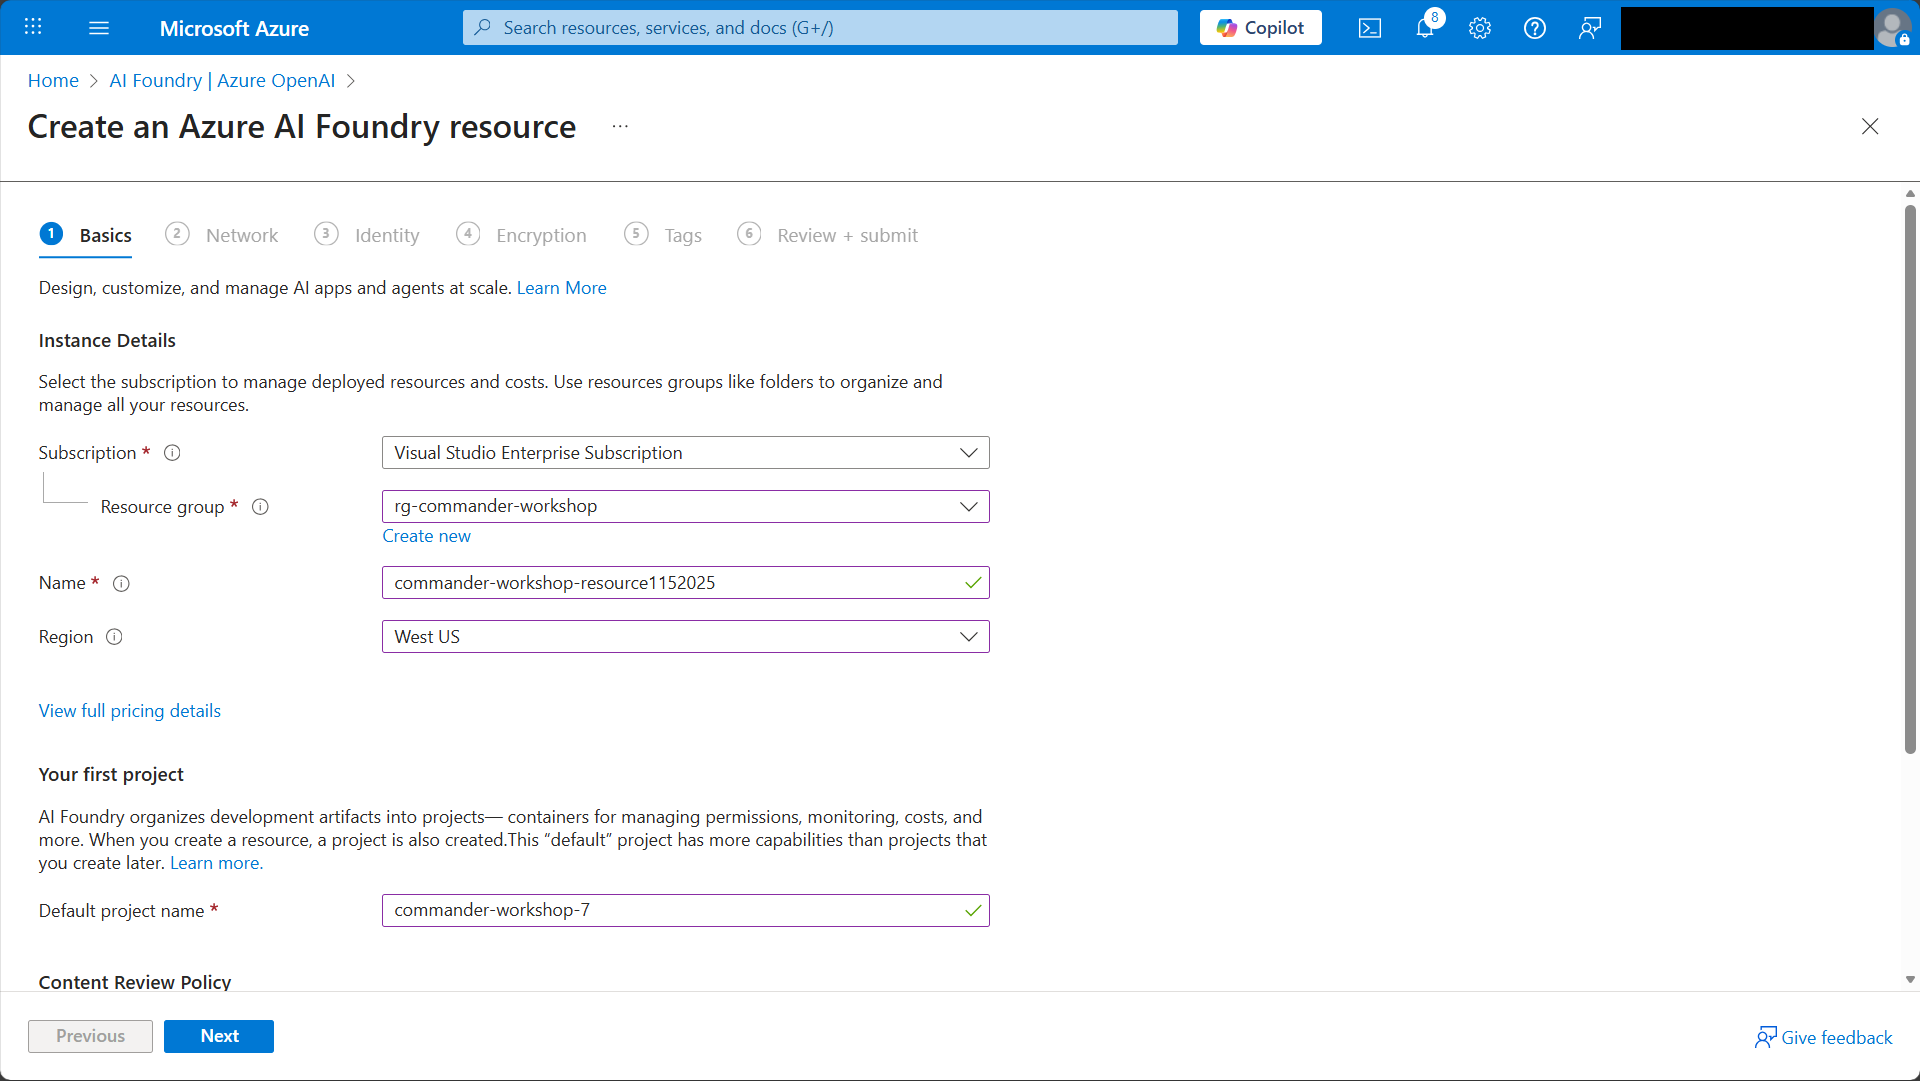
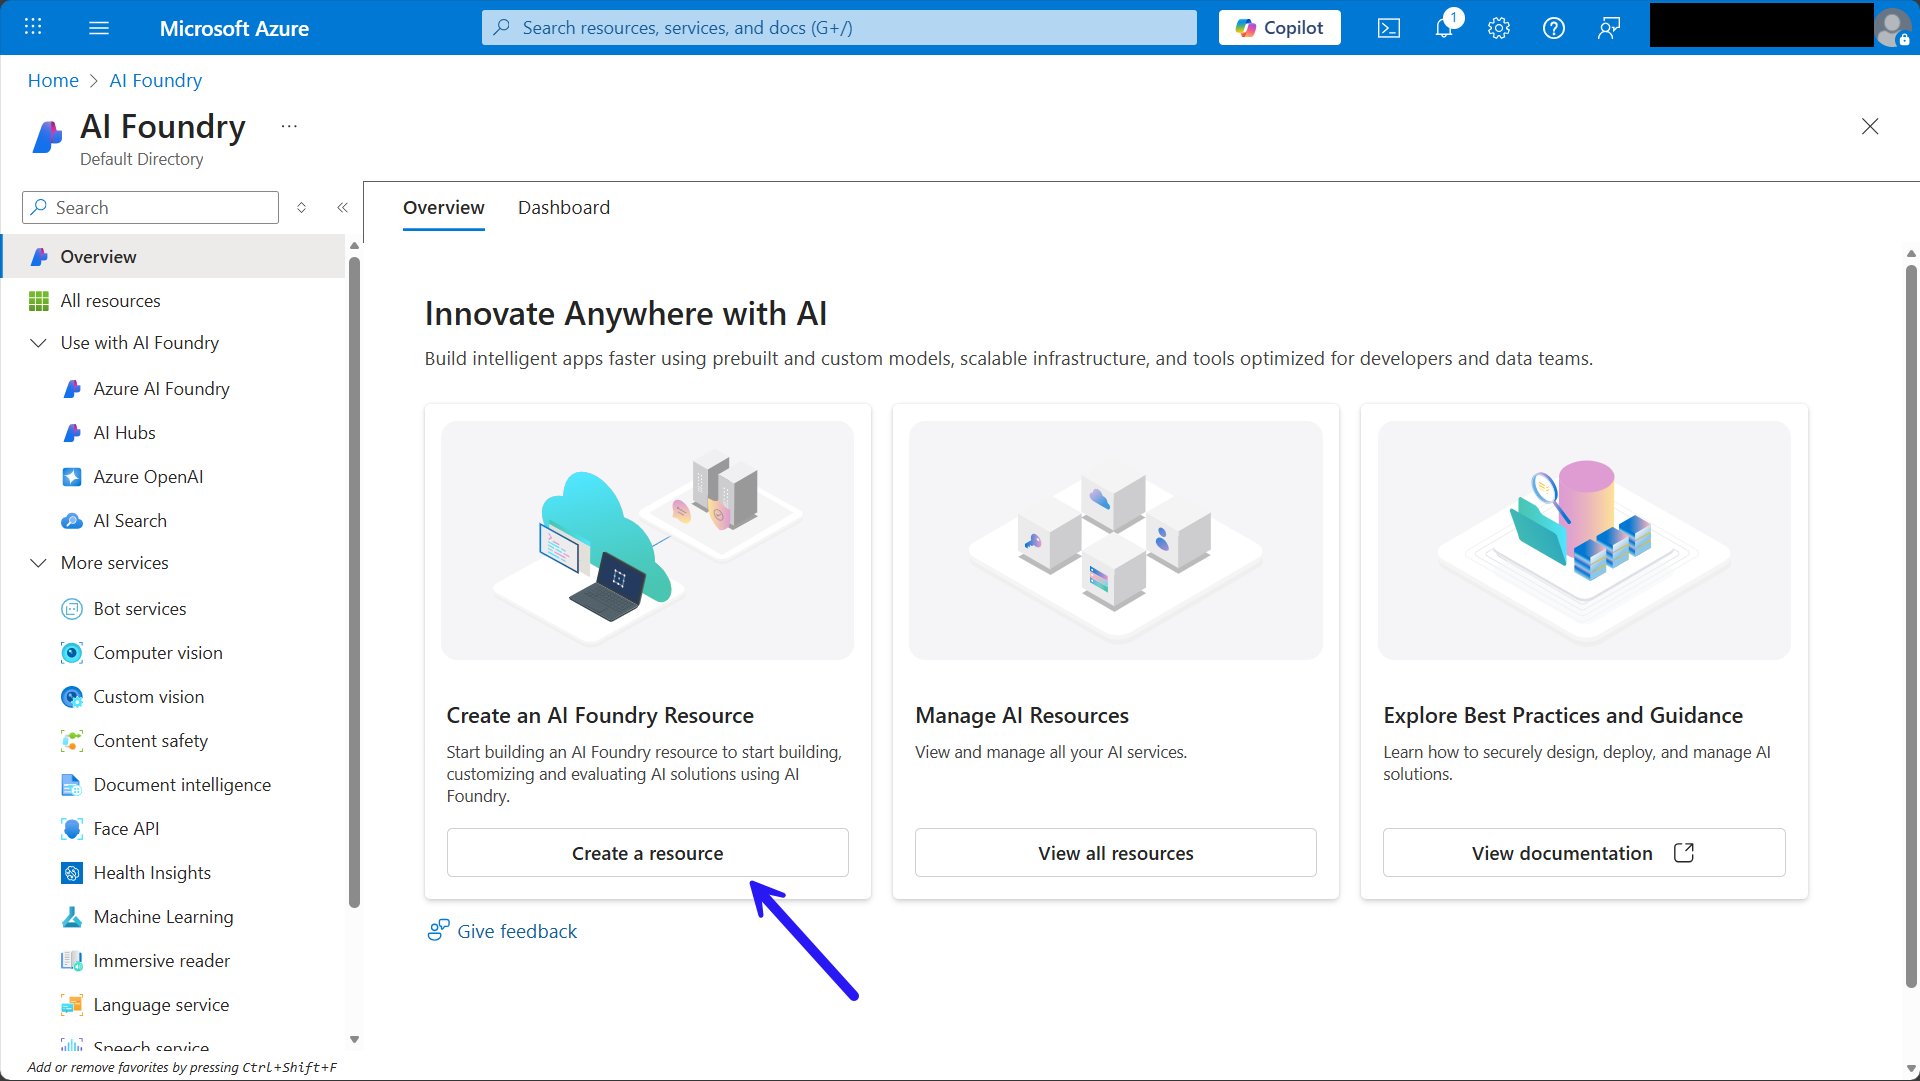
Updates to Lab 7.1

diff --git a/docs/commander/07-extend-with-azure-ai/README.md b/docs/commander/07-extend-with-azure-ai/README.md
@@ -235,7 +235,9 @@ Understanding how these capabilities integrate with your agent helps you design 
     - Optimize model selection and data retrieval strategies.
     - Continuously improve based on user feedback.
 
-## 🧪Lab 7.1: Configure the Azure resources
+## 🧪Lab 7.1: Bring your own data from Azure to your agent
+
+In this lab, you use Azure AI Foundry and Azure AI Search to bring your own data from Azure to enhance the knowledge of a Copilot Studio agent.
 
 ### Prerequisites to complete this mission
 
@@ -245,114 +247,48 @@ Understanding how these capabilities integrate with your agent helps you design 
 
 1. Sample documents from [IT policies](https://download-directory.github.io/?url=https://github.com/RobStand/agent-academy/tree/main/docs/commander/07-extend-with-azure-ai/assets/it-documentation&filename=commander_sampledata)
 
-### 7.1.1 Create a resource group
+### 7.1.1 Create an Azure AI Foundry resource
 
-The first thing to do is to create a resource group that will organize all of the various Azure resources you need for the labs.
-
-1. Navigate to [Azure portal](https://portal.azure.com) and log in
-1. Select **Resource groups**
-1. Select **+ Create**
-1. Configure the resource group:
-
-    - **Subscription**: Choose the Azure subscription you want to use
-    - **Resource group name**: Enter `rg-commander-workshop`
-    - **Region**: Choose the region closest to you
-  
-    ![Create the resource group](assets/7-create-azure-resource-group.png)
-
-1. Select **Review + create**, then **Create**
-1. Wait a little bit for Azure to create the resource group
-1. When it's finished, select **Go to resource** and Azure will load your new resource group
-
-    ![Deployed resource group](assets/7-deployed-resource-group.png)
-
-Now you are ready to create the Azure services you need for the labs.
-
-### 7.1.2 Create an Azure OpenAI service
-
-Next, you need an Azure OpenAI service.
-
-1. In your resource group, select **+ Create**
-1. Search for `Azure OpenAI`
-1. Select **Azure services only**
-1. In the results, look for **Azure OpenAI** and select **Create**, then **Azure OpenAI**
-1. Configure the new Azure OpenAI service:
-
-    - **Subscription**: Choose the Azure subscription you want to use
-    - **Resource group**: Select `rg-commander-workshop`
-    - **Region**: Choose the region you selected for your resource group
-    - **Name**: Enter a unique name for the service
-    - **Pricing tier**: Choose `Standard SO`
-
-    ![Create Azure OpenAI service](assets/7-create-azure-openai-service.png)
-
-1. Select **Next** to navigate through the options
-1. Select **Create**
-
-Azure will deploy your new OpenAI service and you're ready to proceed.
-
-### 7.1.3 Set up Azure AI Foundry
-
-You need an Azure AI Foundry resource and project to manage the models you'll use in the BYOD and BYOM labs.
-
-1. Navigate to your resource group in Azure portal and select **+ Create**
-1. Search for `AI Foundry`
-1. In the results, look for **Azure AI Foundry** and select **Create**, then **Azure AI Foundry**
+1. On the Azure portal home page, select `Azure AI Foundry` under **Azure services** or search for it in the **Search** box
+1. Select **Create a resource**
+    ![Create AI Foundry resource](assets/7-create-ai-foundry-resource.png)
 1. Configure the AI Foundry resource:
 
     - **Subscription**: Choose the Azure subscription you want to use
-    - **Resource group**: Select `rg-commander-workshop`
+    - **Resource group**: Select **Create new** and name it `rg-commander-workshop`
     - **Name**: Enter a unique name for the AI Foundry resource
-    - **Region**: Choose the region you selected for your resource group
+    - **Region**: Choose the region closest to you
     - **Default project name**: Enter `commander-workshop-7`
 
-    ![Create AI Foundry resource](assets/7-create-ai-foundry-resource.png)
+    ![Configure AI Foundry resource](assets/7-foundry-configure-resource.png)
 
-1. Select **Next** to navigate through the options
+1. Select **Next** to proceed through the options
 1. Select **Create**
 
-Your AI Foundry resource and project are ready.
-
-### 7.1.4 Deploy an embedding model
+### 7.1.2 Deploy an embedding model
 
 1. Navigate to [Azure AI Foundry](https://ai.foundry.com)
-1. In the left-hand navigation, select **Management center**
-    ![Select management center](assets/7-foundry-select-management-center.png)
-1. Select **Connected resources**
-1. Select **+ New connection**
-1. Select **Azure OpenAI**
-    ![Create new connection](assets/7-foundry-new-connection.png)
-1. Select **Add connection** for the OpenAI service you created
-    ![Add OpenAI connection](assets/7-foundry-add-openai-connection.png)
-1. Select **Close**
-1. In the left-hand navigation, select **Go to project**
 1. Under **My assets** in the left-hand navigation, select **Models + endpoints**
 1. Select **Deploy model**, then select **Deploy base model**
     ![Deploy base model](assets/7-foundry-deploy-base-model.png)
-1. Enter `text embedding` in the **search** box
-1. Select **text-embedding-ada-002**
+1. Enter `text embedding` in the **Search** box
+1. Select `text-embedding-ada-002`
 1. Select **Confirm**
     ![Select embedding model](assets/7-foundry-search-embedding-model.png)
-1. Select **Customize**
-1. For **Connected AI resource**, select the Azure OpenAI resource that you created previously
-    ![Customize model deployment](assets/7-foundry-use-connected-resource.png)
 1. Select **Deploy**
+    ![Deploy embedding model](assets/7-foundry-deploy-embedding-model.png)
 
-You now have an embedding model that you will use in the BYOD lab.
+### 7.1.3 Set up Azure Blob Storage
 
-### 7.1.5 Set up Azure Blob Storage
-
-Next, you'll create a storage account and upload the policy documents to it to use in the BYOD lab.
-
-1. Navigate to your resource group in Azure portal and select **+ Create**
-1. Search for `Storage Account`
-1. In the results, look for **Storage Account** and select **Create**, then **Storage Account**
+1. Navigate to the [Azure portal](https://portal.azure.com)
+1. Search for **Storage accounts** and select it in the search results
+1. Select **Create**
 1. Configure the Storage Account resource:
 
     - **Subscription**: Choose the Azure subscription you want to use
     - **Resource group**: Select `rg-commander-workshop`
     - **Storage account name**: Enter a unique name for the storage account resource
-    - **Region**: Choose the region you selected for your resource group
+    - **Region**: Choose the region you selected for your AI Foundry resource
     - **Preferred storage type**: Choose `Azure Blob Storage or Azure Data Lake Storage Gen 2`
     - **Primary workload**: Choose `Backup and archive`
     - **Performance**: Choose `Standard`
@@ -373,17 +309,9 @@ Next, you'll create a storage account and upload the policy documents to it to u
 
     ![Upload files to blob](assets/7-upload-files-to-blob.png)
 
-## 🧪Lab 7.2: BYOD from AI Search to your agent
+### 7.1.4 Create an AI Search service
 
-1. An active Azure subscription with resources created in Lab 7.1
-
-In this lab, you use Azure AI Foundry and Azure AI Search to bring your own data from Azure to enhance the knowledge of a Copilot Studio agent.
-
-### 7.2.1 Create the AI Search service
-
-The first thing to do is to create an Azure AI Search service to provide the "data" part of BYOD.
-
-1. On the Azure portal home page, select `AI Search` under **Azure services**
+1. On the Azure portal home page, select `AI Search` under **Azure services** or search for it
 
     ![AI Search service](assets/7-ai-search-service.png)
 
@@ -392,7 +320,7 @@ The first thing to do is to create an Azure AI Search service to provide the "da
     - **Subscription**: Choose the Azure subscription you want to use
     - **Resource group**: Select `rg-commander-workshop`
     - **Service name**: Enter a unique name for the service
-    - **Region**: Choose the region you selected for your resource group
+    - **Region**: Choose the region you selected for your AI Foundry resource
     - **Pricing tier**: Select `Basic`
 
     ![Create AI Search service](assets/7-create-ai-search-service.png)
@@ -400,15 +328,15 @@ The first thing to do is to create an Azure AI Search service to provide the "da
 1. Select **Review + create**, then **Create**
 1. When Azure finishes creating the service, select **Go to resource**
 
-### 7.2.2 Import data into AI Search
+### 7.1.5 Import data into AI Search
 
 1. In your AI Search service, select **Import data (new)** on the tool bar
 
     ![Import data in AI Search](assets/7-ai-search-import-data.png)
 
-1. For **Choose a data source**, select **Azure Blob Storage**
+1. Select **Azure Blob Storage**
     ![Choose data source](assets/7-ai-search-choose-data-source.png)
-1. For **What scenario are you targeting?**, select **RAG**
+1. Select **RAG**
     ![Select target scenario](assets/7-ai-search-select-target-scenario.png)
 1. Configure the connection to Azure Blob Storage:
 
@@ -418,16 +346,25 @@ The first thing to do is to create an Azure AI Search service to provide the "da
     - **Parsing mode**: Select `Text`
 
     ![Configure Azure Blob Storage](assets/7-ai-search-configure-blob-storage-connection.png)
+    
 1. Select **Next**
+
 1. Configure the text vectorization:
 
-    - **Kind**: 
+    - **Kind**: Select `Azure AI Foundry`
+    - **Subscription**: Select the Azure subscription you want to use
+    - **Azure AI Foundry/Hub project**: Select `commander-workshop-7`
+    - **Model deployment**: Select `text-embedding-ada-002`
+  
+1. Tick the box to acknowledge that connecting to an AI Foundry project will incur additional costs to your account.
+1. Select **Next**
+1. Ensure **Enable semantic ranker** is ticked
+1. Select **Next**
+1. Select **Create**
 
+    ![Verify AI Search configuration](assets/7-ai-search-index-verification.png)
 
-1. Connect it to the deployed Open AI service
-1. Select the model deployment
-
-### 7.2.3 Add Azure AI Search as knowledge source
+### 7.1.6 Add Azure AI Search as knowledge source
 
 Now you'll connect your AI Search index as a knowledge source for your agent.
 
